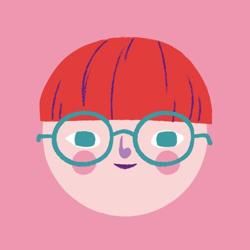
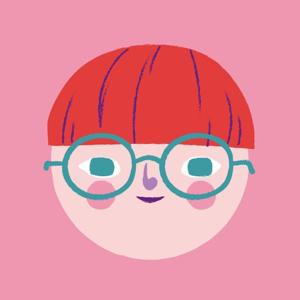
Подгон изображения под размеры

diff --git a/l2/Users/views.py b/l2/Users/views.py
@@ -87,6 +87,10 @@ def profile(request, username):
                 get_current_user.delete_avatar()
                 profile_form.save()
                 user_form.save()
+                if image.height > 300 or image.width > 300:
+                    new_img = (300, 300)
+                    image.thumbnail(new_img)
+                    image.save(profile.avatar.path)
                 messages.success(request, 'Ваш профиль успешно обновлен')
                 return redirect('profile', request.user.username)
 

diff --git a/l2/Users/models.py b/l2/Users/models.py
@@ -24,15 +24,6 @@ class Profile(models.Model):
         self.link = slugify(self.user)
         super(Profile, self).save(*args, **kwargs)
 
-    def save(self, *args, **kwargs):
-        super().save()
-        img = Image.open(self.avatar.path)
-
-        if img.height > 250 or img.width > 250:
-            new_img = (250, 250)
-            img.thumbnail(new_img)
-            img.save(self.avatar.path)
-
     def delete_avatar(self):
         try:
             self.avatar.delete()
